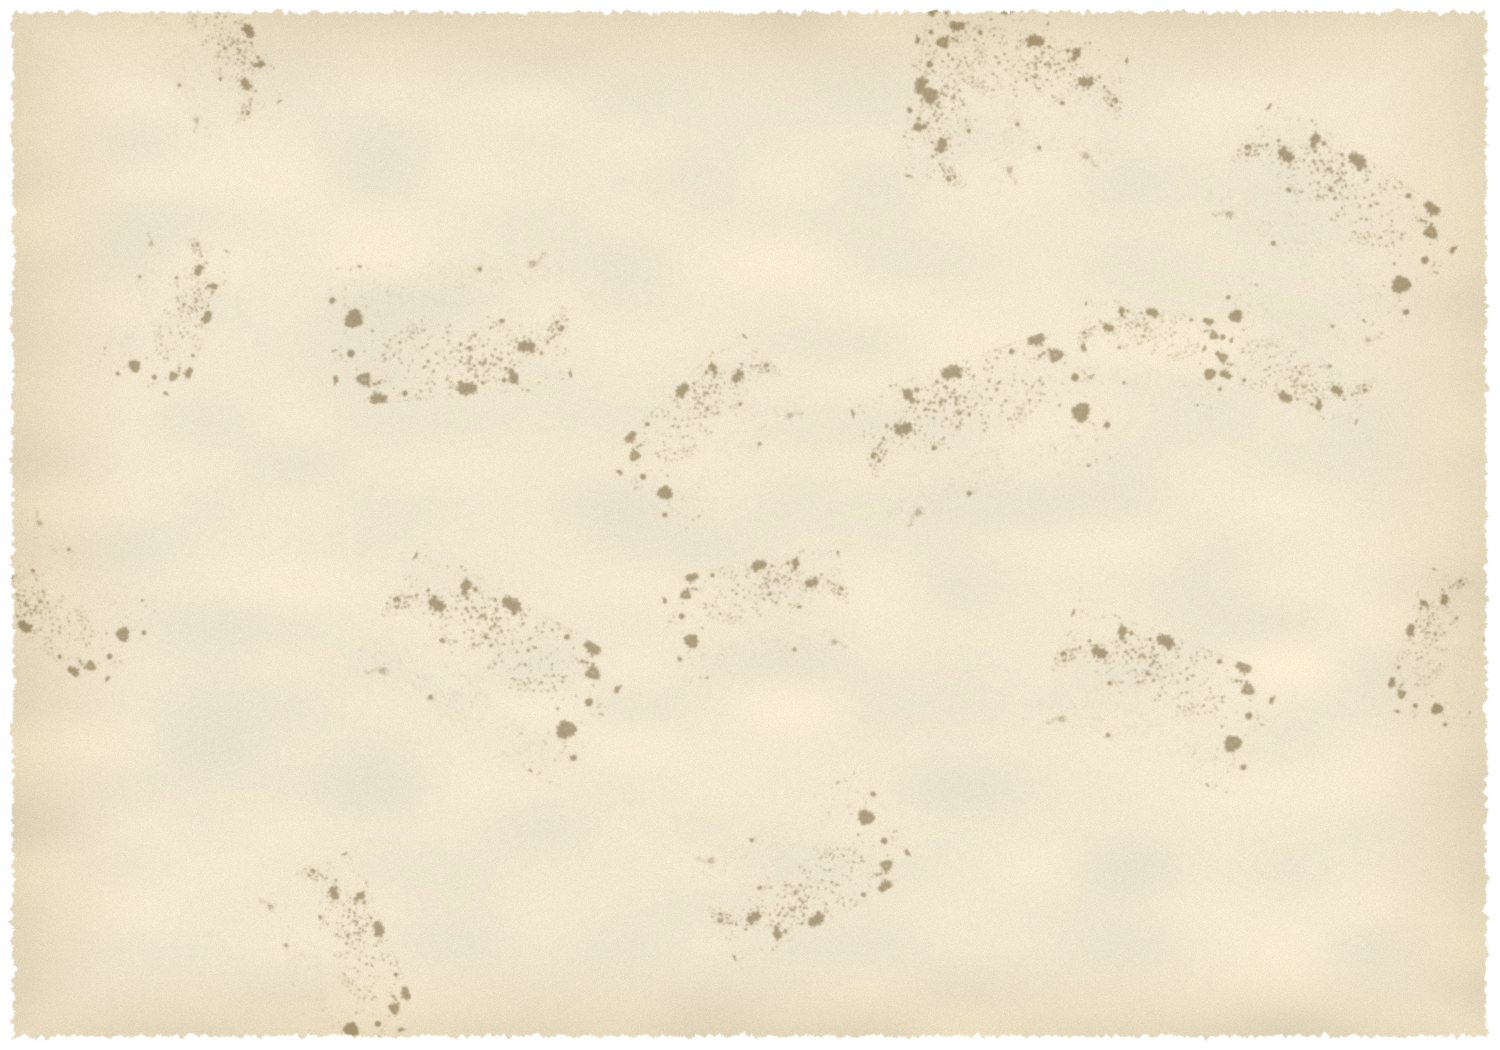
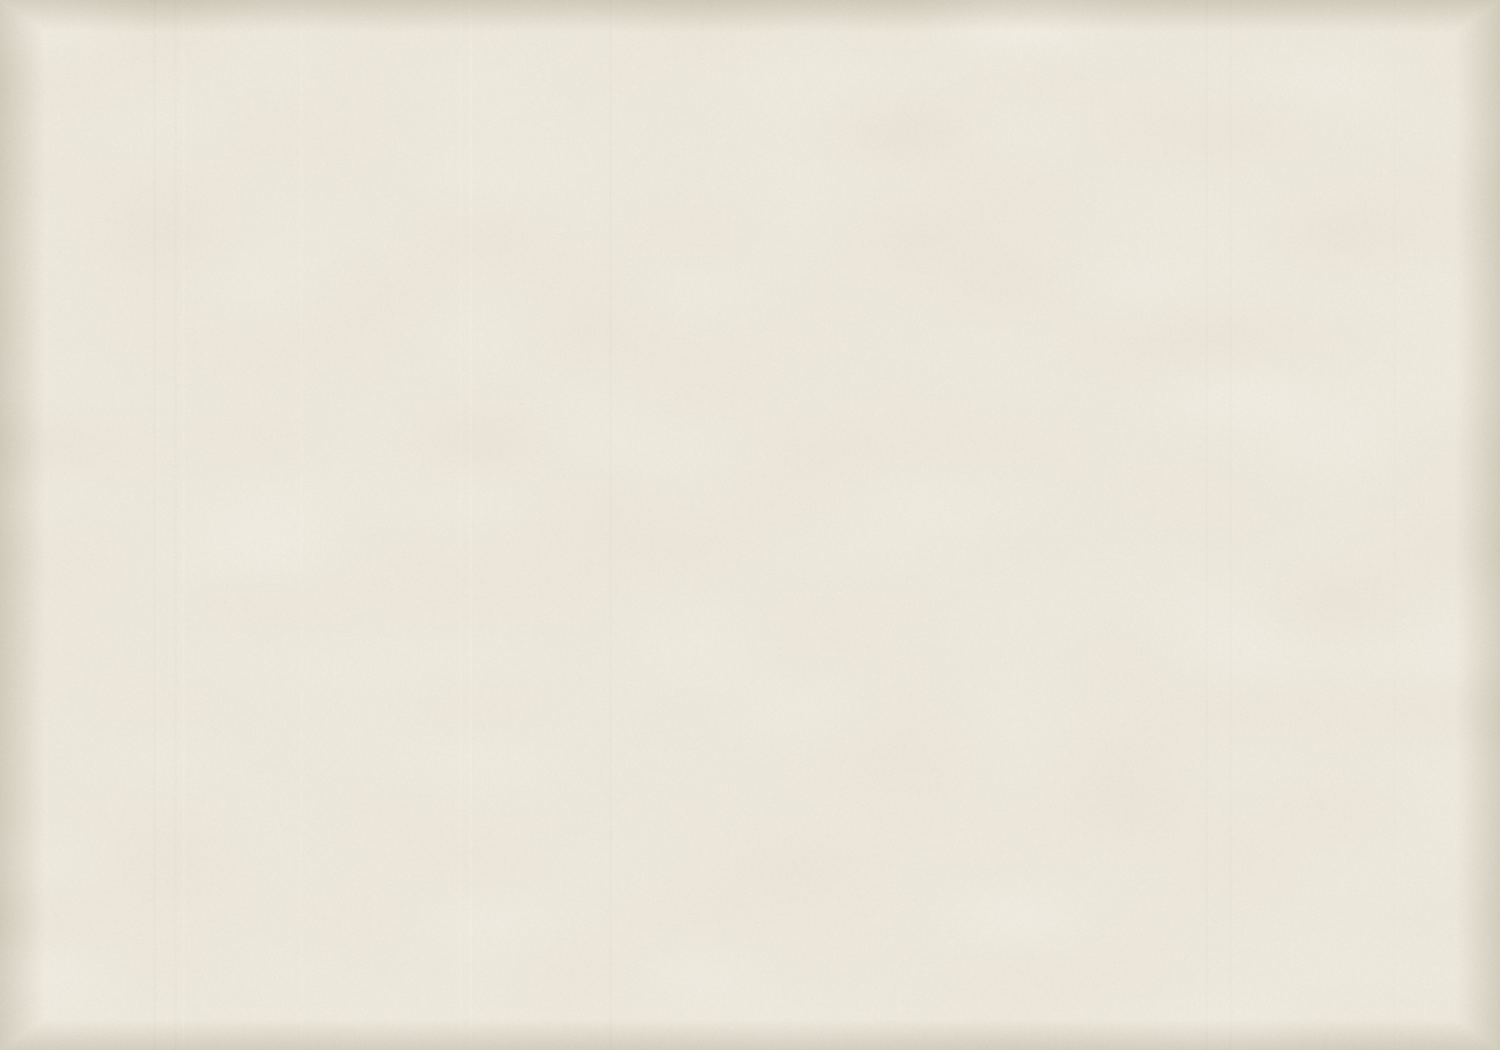
Replace patina with a plain flat photocopy texture (even grain, faint streaks, edge shadow); drop foxing/deckle

diff --git a/penafalcon-v2.css b/penafalcon-v2.css
@@ -63,7 +63,7 @@ body::before {
   width: min(880px, 100%);
   padding: 66px clamp(30px, 6vw, 84px) 78px;
   /* the aged, deckle-edged paper */
-  background: url("img/motifs/paper-card.png?v=5") center/100% 100% no-repeat;
+  background: url("img/motifs/paper-card.png?v=6") center/100% 100% no-repeat;
   transform: rotate(-.5deg);
   filter: drop-shadow(0 34px 46px rgba(0,0,0,.62)) drop-shadow(0 8px 14px rgba(0,0,0,.5));
 }
